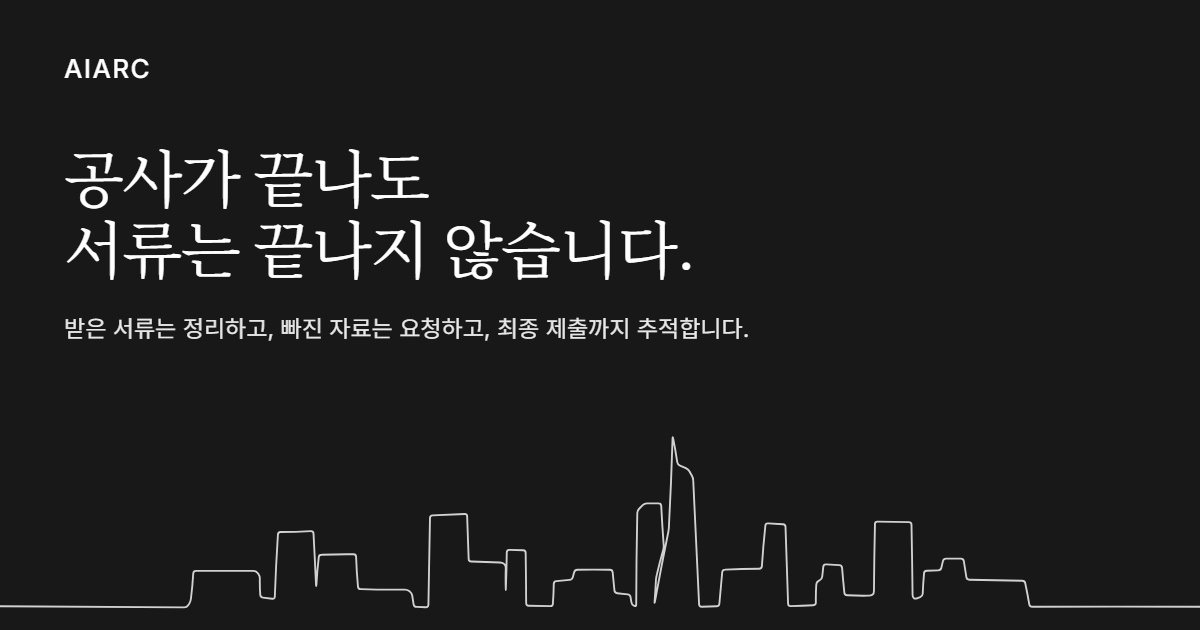
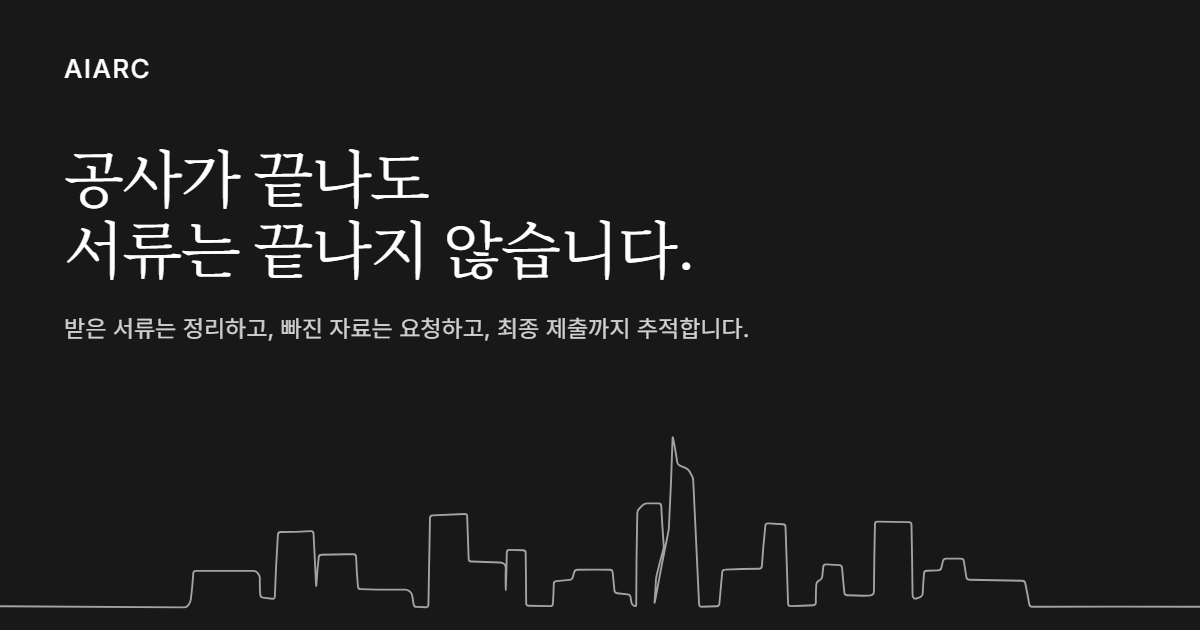
polish: drop the hero ladder to 100 / 80 / 60
Comparison variant. Subhead .9 -> .8 and skyline .8 -> .6, so the headline is the
only thing at full weight and the graphic sits further back.

Colour only. The diff in index.html is three lines: a comment, the subhead's
colour, and the path element's stroke. Path data byte-identical, stroke-width
still 3 at 1920 / 2.25 at 1440 / 1.2 on a phone, headline still 50/41.5/33 at
1.08, header and nav untouched.

diff --git a/index.html b/index.html
@@ -206,7 +206,7 @@ main{padding-top:var(--header-h)}
      headline stops dominating the skyline. Leading 1.15 -> 1.08 binds the two
      lines into one block. Family and weight unchanged. */
   font-size:33px;line-height:1.08;letter-spacing:-.025em;
-  /* top of the brightness ladder: headline 100, subhead 90, skyline 80 */
+  /* top of the brightness ladder: headline 100, subhead 80, skyline 60 */
   color:rgb(255 255 255);
   /* Korean has no inter-syllable break opportunity worth taking — without this the
      browser splits 않습니다 across lines at narrow widths */
@@ -218,7 +218,7 @@ main{padding-top:var(--header-h)}
    subhead mt-6 (24px), CTA mt-10 (40px) */
 .hero-sub{
   margin:24px auto 0;max-width:576px;
-  font-size:18px;line-height:1.625;color:rgb(255 255 255 / .9);
+  font-size:18px;line-height:1.625;color:rgb(255 255 255 / .8);
   word-break:keep-all;
 }
 .hero-cta{margin-top:40px;display:flex;align-items:center;justify-content:center}
@@ -381,7 +381,7 @@ main{padding-top:var(--header-h)}
       <div class="skyline-clip">
         <!-- purely decorative: announcing it adds nothing for screen readers -->
         <svg xmlns="http://www.w3.org/2000/svg" viewBox="0 0 1905 300" aria-hidden="true" focusable="false">
-          <path id="skyline-line" d="M0,284.5Q146.3,284.9 292.6,286.2Q296.6,286.2 298.7,282.9L300.6,280Q302.7,276.6 303.1,272.6Q305.6,252.5 306.8,232.3Q307.1,228.3 311.1,228.3Q356.7,228.5 402.3,228.3Q406.3,228.3 408.7,231.4L410,233Q412.4,236.2 412.5,240.2Q412.2,253.3 413.2,266.4Q413.3,270.4 417.3,270.9L432.1,272.6Q436.1,273.1 436.3,269.1Q438,219.9 441.2,170.8Q441.4,166.8 445.4,166.7Q469.5,166.5 493.5,165.2Q497.5,165.1 497.7,169Q499.9,209.8 501.7,250.6Q501.9,254.6 502.3,250.6Q503.4,228.7 506,206.8Q506.3,202.8 510.3,202.8Q535.7,201.7 561.1,202Q565.1,201.9 565.3,205.9Q566.1,229.6 568.3,253.3Q568.6,257.3 572.6,257.3Q607.6,258.5 642.7,258.1Q646.7,258.1 649.5,260.2L650.9,261.3Q653.7,263.4 654.4,267.4L656.6,281.4Q657.2,285.4 661.2,285.5L676,286.1Q680,286.2 680.1,282.2Q681.4,213.4 682.6,144.5Q682.7,140.5 686.7,140.3Q712.1,139.1 737.5,138Q741.5,137.8 741.6,141.8Q742.7,175.6 744,209.4Q744.1,213.4 748.1,213.5Q770.9,214.4 793.6,215Q797.6,215.1 799.7,216.9L800.8,217.7Q802.9,219.5 802.9,223.5Q802.4,240.1 802.9,256.8Q802.9,260.8 803,256.8Q804.2,227.9 804.5,198.9Q804.7,194.9 808.6,195L830.5,195.7Q834.5,195.8 834.5,199.8Q835.1,239.7 835.3,279.6Q835.4,283.6 839.4,283.7Q856.4,284 873.5,284.4Q877.5,284.5 877.7,280.5Q878.9,264.8 879.1,249Q879.2,245 883.2,244.6L904.2,242.7Q908.2,242.3 909.3,238.5L911.5,230.4Q912.6,226.5 916.6,226.5Q942.4,226.3 968.2,226.5Q972.2,226.5 972.6,230.5Q974,245 975.4,259.4Q975.8,263.4 979.7,263.8L996.3,265.6Q1000.3,266 1001,270L1002.3,277.9Q1003,281.9 1005.8,283.3L1007.2,284Q1010,285.4 1010,281.4Q1010.2,209 1011.7,136.6Q1011.7,132.6 1014.6,129.7L1020.3,124Q1023.1,121.1 1027.1,121.1L1045.5,121.1Q1049.5,121.1 1049.7,125.1Q1051.3,156.3 1053.6,187.4Q1053.9,191.4 1052.8,195.3Q1047.2,215 1042.6,234.9Q1041.6,238.8 1041.3,242.8Q1040.5,259.9 1039.2,277Q1038.9,281 1039.7,277Q1049.8,221.6 1061,166.3Q1061.8,162.4 1061.9,158.4Q1065.6,88.2 1067.7,18Q1067.9,14 1068.6,17.9Q1072.4,36.7 1075.1,55.7Q1075.8,59.7 1079.5,61.2L1088.8,65.1Q1092.5,66.7 1094.4,70.2L1098.4,77.3Q1100.4,80.7 1100.5,84.7Q1105.3,183.1 1109.8,281.4Q1110,285.4 1114,285.3L1137.6,284.6Q1141.6,284.5 1142,280.5Q1144.2,255.5 1146.5,230.5Q1146.9,226.5 1150.9,226.4Q1178,225 1205.2,224.9Q1209.2,224.8 1209.5,220.8Q1211.6,188.7 1215,156.7Q1215.3,152.8 1219.3,153L1242.9,154.3Q1246.9,154.5 1247,158.5Q1248.9,219.5 1251.1,280.5Q1251.3,284.5 1255.3,284.3Q1273.2,284 1291.2,282.9Q1295.2,282.7 1295.2,278.7Q1294.9,264.3 1295.9,249.8Q1296,245.9 1299.5,244.1L1301.3,243.2Q1304.8,241.5 1305.3,237.5L1307,221.7Q1307.4,217.7 1311.4,218L1332.4,219.3Q1336.4,219.5 1336.8,223.5Q1338.4,243.2 1340.4,262.9Q1340.8,266.9 1344.8,267Q1361.8,268 1378.9,267.7Q1382.9,267.8 1384.7,266.4L1385.5,265.7Q1387.3,264.3 1387.4,260.3Q1387.8,207.2 1389,154.1Q1389,150.1 1393,150.2Q1418,150.7 1443,150.9Q1447,151 1447,155Q1448.1,210.7 1448.7,266.4Q1448.7,270.4 1450.5,271.5L1451.3,272Q1453.1,273.1 1456.8,271.6L1460.8,270.1Q1464.5,268.7 1464.8,264.7Q1465.5,248.5 1466.9,232.3Q1467.1,228.3 1471.1,228.1L1489.5,227.5Q1493.5,227.4 1494.4,223.5L1496.9,212.9Q1497.9,209 1501.9,209L1525.4,209Q1529.4,209 1530.1,212.9Q1532.1,225.6 1534.1,238.4Q1534.7,242.3 1538.7,242.4Q1580.8,243.5 1622.8,244Q1626.8,244.1 1627.6,248Q1631.1,264.7 1634,281.4Q1634.7,285.4 1638.7,285.4Q1771.9,284.8 1905,285.4" fill="none" stroke="rgba(255,255,255,0.8)" stroke-width="3" stroke-linecap="round" stroke-linejoin="round" vector-effect="non-scaling-stroke"/>
+          <path id="skyline-line" d="M0,284.5Q146.3,284.9 292.6,286.2Q296.6,286.2 298.7,282.9L300.6,280Q302.7,276.6 303.1,272.6Q305.6,252.5 306.8,232.3Q307.1,228.3 311.1,228.3Q356.7,228.5 402.3,228.3Q406.3,228.3 408.7,231.4L410,233Q412.4,236.2 412.5,240.2Q412.2,253.3 413.2,266.4Q413.3,270.4 417.3,270.9L432.1,272.6Q436.1,273.1 436.3,269.1Q438,219.9 441.2,170.8Q441.4,166.8 445.4,166.7Q469.5,166.5 493.5,165.2Q497.5,165.1 497.7,169Q499.9,209.8 501.7,250.6Q501.9,254.6 502.3,250.6Q503.4,228.7 506,206.8Q506.3,202.8 510.3,202.8Q535.7,201.7 561.1,202Q565.1,201.9 565.3,205.9Q566.1,229.6 568.3,253.3Q568.6,257.3 572.6,257.3Q607.6,258.5 642.7,258.1Q646.7,258.1 649.5,260.2L650.9,261.3Q653.7,263.4 654.4,267.4L656.6,281.4Q657.2,285.4 661.2,285.5L676,286.1Q680,286.2 680.1,282.2Q681.4,213.4 682.6,144.5Q682.7,140.5 686.7,140.3Q712.1,139.1 737.5,138Q741.5,137.8 741.6,141.8Q742.7,175.6 744,209.4Q744.1,213.4 748.1,213.5Q770.9,214.4 793.6,215Q797.6,215.1 799.7,216.9L800.8,217.7Q802.9,219.5 802.9,223.5Q802.4,240.1 802.9,256.8Q802.9,260.8 803,256.8Q804.2,227.9 804.5,198.9Q804.7,194.9 808.6,195L830.5,195.7Q834.5,195.8 834.5,199.8Q835.1,239.7 835.3,279.6Q835.4,283.6 839.4,283.7Q856.4,284 873.5,284.4Q877.5,284.5 877.7,280.5Q878.9,264.8 879.1,249Q879.2,245 883.2,244.6L904.2,242.7Q908.2,242.3 909.3,238.5L911.5,230.4Q912.6,226.5 916.6,226.5Q942.4,226.3 968.2,226.5Q972.2,226.5 972.6,230.5Q974,245 975.4,259.4Q975.8,263.4 979.7,263.8L996.3,265.6Q1000.3,266 1001,270L1002.3,277.9Q1003,281.9 1005.8,283.3L1007.2,284Q1010,285.4 1010,281.4Q1010.2,209 1011.7,136.6Q1011.7,132.6 1014.6,129.7L1020.3,124Q1023.1,121.1 1027.1,121.1L1045.5,121.1Q1049.5,121.1 1049.7,125.1Q1051.3,156.3 1053.6,187.4Q1053.9,191.4 1052.8,195.3Q1047.2,215 1042.6,234.9Q1041.6,238.8 1041.3,242.8Q1040.5,259.9 1039.2,277Q1038.9,281 1039.7,277Q1049.8,221.6 1061,166.3Q1061.8,162.4 1061.9,158.4Q1065.6,88.2 1067.7,18Q1067.9,14 1068.6,17.9Q1072.4,36.7 1075.1,55.7Q1075.8,59.7 1079.5,61.2L1088.8,65.1Q1092.5,66.7 1094.4,70.2L1098.4,77.3Q1100.4,80.7 1100.5,84.7Q1105.3,183.1 1109.8,281.4Q1110,285.4 1114,285.3L1137.6,284.6Q1141.6,284.5 1142,280.5Q1144.2,255.5 1146.5,230.5Q1146.9,226.5 1150.9,226.4Q1178,225 1205.2,224.9Q1209.2,224.8 1209.5,220.8Q1211.6,188.7 1215,156.7Q1215.3,152.8 1219.3,153L1242.9,154.3Q1246.9,154.5 1247,158.5Q1248.9,219.5 1251.1,280.5Q1251.3,284.5 1255.3,284.3Q1273.2,284 1291.2,282.9Q1295.2,282.7 1295.2,278.7Q1294.9,264.3 1295.9,249.8Q1296,245.9 1299.5,244.1L1301.3,243.2Q1304.8,241.5 1305.3,237.5L1307,221.7Q1307.4,217.7 1311.4,218L1332.4,219.3Q1336.4,219.5 1336.8,223.5Q1338.4,243.2 1340.4,262.9Q1340.8,266.9 1344.8,267Q1361.8,268 1378.9,267.7Q1382.9,267.8 1384.7,266.4L1385.5,265.7Q1387.3,264.3 1387.4,260.3Q1387.8,207.2 1389,154.1Q1389,150.1 1393,150.2Q1418,150.7 1443,150.9Q1447,151 1447,155Q1448.1,210.7 1448.7,266.4Q1448.7,270.4 1450.5,271.5L1451.3,272Q1453.1,273.1 1456.8,271.6L1460.8,270.1Q1464.5,268.7 1464.8,264.7Q1465.5,248.5 1466.9,232.3Q1467.1,228.3 1471.1,228.1L1489.5,227.5Q1493.5,227.4 1494.4,223.5L1496.9,212.9Q1497.9,209 1501.9,209L1525.4,209Q1529.4,209 1530.1,212.9Q1532.1,225.6 1534.1,238.4Q1534.7,242.3 1538.7,242.4Q1580.8,243.5 1622.8,244Q1626.8,244.1 1627.6,248Q1631.1,264.7 1634,281.4Q1634.7,285.4 1638.7,285.4Q1771.9,284.8 1905,285.4" fill="none" stroke="rgba(255,255,255,0.6)" stroke-width="3" stroke-linecap="round" stroke-linejoin="round" vector-effect="non-scaling-stroke"/>
         </svg>
       </div>
     </div>

diff --git a/tools/og-card.html b/tools/og-card.html
@@ -32,7 +32,7 @@ h1{
 h1 .line{display:block}
 p{
   margin:28px 0 0;max-width:760px;
-  font-size:23px;line-height:1.6;color:rgb(255 255 255 / .9);word-break:keep-all;
+  font-size:23px;line-height:1.6;color:rgb(255 255 255 / .8);word-break:keep-all;
 }
 /* Full bleed, exactly as on the page: the ground line runs corner to corner and
    the card is just a shorter viewport. The copy sits higher than the page's so the
@@ -57,7 +57,7 @@ p{
 
   <div class="skyline">
     <svg xmlns="http://www.w3.org/2000/svg" viewBox="0 0 1905 300" aria-hidden="true">
-      <path id="skyline-line" d="M0,284.5Q146.3,284.9 292.6,286.2Q296.6,286.2 298.7,282.9L300.6,280Q302.7,276.6 303.1,272.6Q305.6,252.5 306.8,232.3Q307.1,228.3 311.1,228.3Q356.7,228.5 402.3,228.3Q406.3,228.3 408.7,231.4L410,233Q412.4,236.2 412.5,240.2Q412.2,253.3 413.2,266.4Q413.3,270.4 417.3,270.9L432.1,272.6Q436.1,273.1 436.3,269.1Q438,219.9 441.2,170.8Q441.4,166.8 445.4,166.7Q469.5,166.5 493.5,165.2Q497.5,165.1 497.7,169Q499.9,209.8 501.7,250.6Q501.9,254.6 502.3,250.6Q503.4,228.7 506,206.8Q506.3,202.8 510.3,202.8Q535.7,201.7 561.1,202Q565.1,201.9 565.3,205.9Q566.1,229.6 568.3,253.3Q568.6,257.3 572.6,257.3Q607.6,258.5 642.7,258.1Q646.7,258.1 649.5,260.2L650.9,261.3Q653.7,263.4 654.4,267.4L656.6,281.4Q657.2,285.4 661.2,285.5L676,286.1Q680,286.2 680.1,282.2Q681.4,213.4 682.6,144.5Q682.7,140.5 686.7,140.3Q712.1,139.1 737.5,138Q741.5,137.8 741.6,141.8Q742.7,175.6 744,209.4Q744.1,213.4 748.1,213.5Q770.9,214.4 793.6,215Q797.6,215.1 799.7,216.9L800.8,217.7Q802.9,219.5 802.9,223.5Q802.4,240.1 802.9,256.8Q802.9,260.8 803,256.8Q804.2,227.9 804.5,198.9Q804.7,194.9 808.6,195L830.5,195.7Q834.5,195.8 834.5,199.8Q835.1,239.7 835.3,279.6Q835.4,283.6 839.4,283.7Q856.4,284 873.5,284.4Q877.5,284.5 877.7,280.5Q878.9,264.8 879.1,249Q879.2,245 883.2,244.6L904.2,242.7Q908.2,242.3 909.3,238.5L911.5,230.4Q912.6,226.5 916.6,226.5Q942.4,226.3 968.2,226.5Q972.2,226.5 972.6,230.5Q974,245 975.4,259.4Q975.8,263.4 979.7,263.8L996.3,265.6Q1000.3,266 1001,270L1002.3,277.9Q1003,281.9 1005.8,283.3L1007.2,284Q1010,285.4 1010,281.4Q1010.2,209 1011.7,136.6Q1011.7,132.6 1014.6,129.7L1020.3,124Q1023.1,121.1 1027.1,121.1L1045.5,121.1Q1049.5,121.1 1049.7,125.1Q1051.3,156.3 1053.6,187.4Q1053.9,191.4 1052.8,195.3Q1047.2,215 1042.6,234.9Q1041.6,238.8 1041.3,242.8Q1040.5,259.9 1039.2,277Q1038.9,281 1039.7,277Q1049.8,221.6 1061,166.3Q1061.8,162.4 1061.9,158.4Q1065.6,88.2 1067.7,18Q1067.9,14 1068.6,17.9Q1072.4,36.7 1075.1,55.7Q1075.8,59.7 1079.5,61.2L1088.8,65.1Q1092.5,66.7 1094.4,70.2L1098.4,77.3Q1100.4,80.7 1100.5,84.7Q1105.3,183.1 1109.8,281.4Q1110,285.4 1114,285.3L1137.6,284.6Q1141.6,284.5 1142,280.5Q1144.2,255.5 1146.5,230.5Q1146.9,226.5 1150.9,226.4Q1178,225 1205.2,224.9Q1209.2,224.8 1209.5,220.8Q1211.6,188.7 1215,156.7Q1215.3,152.8 1219.3,153L1242.9,154.3Q1246.9,154.5 1247,158.5Q1248.9,219.5 1251.1,280.5Q1251.3,284.5 1255.3,284.3Q1273.2,284 1291.2,282.9Q1295.2,282.7 1295.2,278.7Q1294.9,264.3 1295.9,249.8Q1296,245.9 1299.5,244.1L1301.3,243.2Q1304.8,241.5 1305.3,237.5L1307,221.7Q1307.4,217.7 1311.4,218L1332.4,219.3Q1336.4,219.5 1336.8,223.5Q1338.4,243.2 1340.4,262.9Q1340.8,266.9 1344.8,267Q1361.8,268 1378.9,267.7Q1382.9,267.8 1384.7,266.4L1385.5,265.7Q1387.3,264.3 1387.4,260.3Q1387.8,207.2 1389,154.1Q1389,150.1 1393,150.2Q1418,150.7 1443,150.9Q1447,151 1447,155Q1448.1,210.7 1448.7,266.4Q1448.7,270.4 1450.5,271.5L1451.3,272Q1453.1,273.1 1456.8,271.6L1460.8,270.1Q1464.5,268.7 1464.8,264.7Q1465.5,248.5 1466.9,232.3Q1467.1,228.3 1471.1,228.1L1489.5,227.5Q1493.5,227.4 1494.4,223.5L1496.9,212.9Q1497.9,209 1501.9,209L1525.4,209Q1529.4,209 1530.1,212.9Q1532.1,225.6 1534.1,238.4Q1534.7,242.3 1538.7,242.4Q1580.8,243.5 1622.8,244Q1626.8,244.1 1627.6,248Q1631.1,264.7 1634,281.4Q1634.7,285.4 1638.7,285.4Q1771.9,284.8 1905,285.4" fill="none" stroke="rgba(255,255,255,0.8)" stroke-width="3" stroke-linecap="round" stroke-linejoin="round" vector-effect="non-scaling-stroke"/>
+      <path id="skyline-line" d="M0,284.5Q146.3,284.9 292.6,286.2Q296.6,286.2 298.7,282.9L300.6,280Q302.7,276.6 303.1,272.6Q305.6,252.5 306.8,232.3Q307.1,228.3 311.1,228.3Q356.7,228.5 402.3,228.3Q406.3,228.3 408.7,231.4L410,233Q412.4,236.2 412.5,240.2Q412.2,253.3 413.2,266.4Q413.3,270.4 417.3,270.9L432.1,272.6Q436.1,273.1 436.3,269.1Q438,219.9 441.2,170.8Q441.4,166.8 445.4,166.7Q469.5,166.5 493.5,165.2Q497.5,165.1 497.7,169Q499.9,209.8 501.7,250.6Q501.9,254.6 502.3,250.6Q503.4,228.7 506,206.8Q506.3,202.8 510.3,202.8Q535.7,201.7 561.1,202Q565.1,201.9 565.3,205.9Q566.1,229.6 568.3,253.3Q568.6,257.3 572.6,257.3Q607.6,258.5 642.7,258.1Q646.7,258.1 649.5,260.2L650.9,261.3Q653.7,263.4 654.4,267.4L656.6,281.4Q657.2,285.4 661.2,285.5L676,286.1Q680,286.2 680.1,282.2Q681.4,213.4 682.6,144.5Q682.7,140.5 686.7,140.3Q712.1,139.1 737.5,138Q741.5,137.8 741.6,141.8Q742.7,175.6 744,209.4Q744.1,213.4 748.1,213.5Q770.9,214.4 793.6,215Q797.6,215.1 799.7,216.9L800.8,217.7Q802.9,219.5 802.9,223.5Q802.4,240.1 802.9,256.8Q802.9,260.8 803,256.8Q804.2,227.9 804.5,198.9Q804.7,194.9 808.6,195L830.5,195.7Q834.5,195.8 834.5,199.8Q835.1,239.7 835.3,279.6Q835.4,283.6 839.4,283.7Q856.4,284 873.5,284.4Q877.5,284.5 877.7,280.5Q878.9,264.8 879.1,249Q879.2,245 883.2,244.6L904.2,242.7Q908.2,242.3 909.3,238.5L911.5,230.4Q912.6,226.5 916.6,226.5Q942.4,226.3 968.2,226.5Q972.2,226.5 972.6,230.5Q974,245 975.4,259.4Q975.8,263.4 979.7,263.8L996.3,265.6Q1000.3,266 1001,270L1002.3,277.9Q1003,281.9 1005.8,283.3L1007.2,284Q1010,285.4 1010,281.4Q1010.2,209 1011.7,136.6Q1011.7,132.6 1014.6,129.7L1020.3,124Q1023.1,121.1 1027.1,121.1L1045.5,121.1Q1049.5,121.1 1049.7,125.1Q1051.3,156.3 1053.6,187.4Q1053.9,191.4 1052.8,195.3Q1047.2,215 1042.6,234.9Q1041.6,238.8 1041.3,242.8Q1040.5,259.9 1039.2,277Q1038.9,281 1039.7,277Q1049.8,221.6 1061,166.3Q1061.8,162.4 1061.9,158.4Q1065.6,88.2 1067.7,18Q1067.9,14 1068.6,17.9Q1072.4,36.7 1075.1,55.7Q1075.8,59.7 1079.5,61.2L1088.8,65.1Q1092.5,66.7 1094.4,70.2L1098.4,77.3Q1100.4,80.7 1100.5,84.7Q1105.3,183.1 1109.8,281.4Q1110,285.4 1114,285.3L1137.6,284.6Q1141.6,284.5 1142,280.5Q1144.2,255.5 1146.5,230.5Q1146.9,226.5 1150.9,226.4Q1178,225 1205.2,224.9Q1209.2,224.8 1209.5,220.8Q1211.6,188.7 1215,156.7Q1215.3,152.8 1219.3,153L1242.9,154.3Q1246.9,154.5 1247,158.5Q1248.9,219.5 1251.1,280.5Q1251.3,284.5 1255.3,284.3Q1273.2,284 1291.2,282.9Q1295.2,282.7 1295.2,278.7Q1294.9,264.3 1295.9,249.8Q1296,245.9 1299.5,244.1L1301.3,243.2Q1304.8,241.5 1305.3,237.5L1307,221.7Q1307.4,217.7 1311.4,218L1332.4,219.3Q1336.4,219.5 1336.8,223.5Q1338.4,243.2 1340.4,262.9Q1340.8,266.9 1344.8,267Q1361.8,268 1378.9,267.7Q1382.9,267.8 1384.7,266.4L1385.5,265.7Q1387.3,264.3 1387.4,260.3Q1387.8,207.2 1389,154.1Q1389,150.1 1393,150.2Q1418,150.7 1443,150.9Q1447,151 1447,155Q1448.1,210.7 1448.7,266.4Q1448.7,270.4 1450.5,271.5L1451.3,272Q1453.1,273.1 1456.8,271.6L1460.8,270.1Q1464.5,268.7 1464.8,264.7Q1465.5,248.5 1466.9,232.3Q1467.1,228.3 1471.1,228.1L1489.5,227.5Q1493.5,227.4 1494.4,223.5L1496.9,212.9Q1497.9,209 1501.9,209L1525.4,209Q1529.4,209 1530.1,212.9Q1532.1,225.6 1534.1,238.4Q1534.7,242.3 1538.7,242.4Q1580.8,243.5 1622.8,244Q1626.8,244.1 1627.6,248Q1631.1,264.7 1634,281.4Q1634.7,285.4 1638.7,285.4Q1771.9,284.8 1905,285.4" fill="none" stroke="rgba(255,255,255,0.6)" stroke-width="3" stroke-linecap="round" stroke-linejoin="round" vector-effect="non-scaling-stroke"/>
     </svg>
   </div>
 </body>

diff --git a/tools/skyline.js b/tools/skyline.js
@@ -32,10 +32,10 @@ const VB_H = 300;
 // real pixels - 0.156vw is exactly this at 1920, with a floor because the
 // proportional width on a 390px phone is 0.6px, which is a smear not a line.
 const STROKE = 3;
-// Bottom rung of the hero's brightness ladder: headline 100, subhead 90, this 80.
+// Bottom rung of the hero's brightness ladder: headline 100, subhead 80, this 60.
 // Same white, lower weight - the graphic backs the copy rather than competing
 // with it. Geometry and STROKE are deliberately untouched.
-const COLOUR = 'rgba(255,255,255,0.8)';
+const COLOUR = 'rgba(255,255,255,0.6)';
 
 const d = 'M0,284.5Q146.3,284.9 292.6,286.2Q296.6,286.2 298.7,282.9L300.6,280Q302.7,276.6 303.1,272.6Q305.6,252.5 306.8,232.3Q307.1,228.3 311.1,228.3Q356.7,228.5 402.3,228.3Q406.3,228.3 408.7,231.4L410,233Q412.4,236.2 412.5,240.2Q412.2,253.3 413.2,266.4Q413.3,270.4 417.3,270.9L432.1,272.6Q436.1,273.1 436.3,269.1Q438,219.9 441.2,170.8Q441.4,166.8 445.4,166.7Q469.5,166.5 493.5,165.2Q497.5,165.1 497.7,169Q499.9,209.8 501.7,250.6Q501.9,254.6 502.3,250.6Q503.4,228.7 506,206.8Q506.3,202.8 510.3,202.8Q535.7,201.7 561.1,202Q565.1,201.9 565.3,205.9Q566.1,229.6 568.3,253.3Q568.6,257.3 572.6,257.3Q607.6,258.5 642.7,258.1Q646.7,258.1 649.5,260.2L650.9,261.3Q653.7,263.4 654.4,267.4L656.6,281.4Q657.2,285.4 661.2,285.5L676,286.1Q680,286.2 680.1,282.2Q681.4,213.4 682.6,144.5Q682.7,140.5 686.7,140.3Q712.1,139.1 737.5,138Q741.5,137.8 741.6,141.8Q742.7,175.6 744,209.4Q744.1,213.4 748.1,213.5Q770.9,214.4 793.6,215Q797.6,215.1 799.7,216.9L800.8,217.7Q802.9,219.5 802.9,223.5Q802.4,240.1 802.9,256.8Q802.9,260.8 803,256.8Q804.2,227.9 804.5,198.9Q804.7,194.9 808.6,195L830.5,195.7Q834.5,195.8 834.5,199.8Q835.1,239.7 835.3,279.6Q835.4,283.6 839.4,283.7Q856.4,284 873.5,284.4Q877.5,284.5 877.7,280.5Q878.9,264.8 879.1,249Q879.2,245 883.2,244.6L904.2,242.7Q908.2,242.3 909.3,238.5L911.5,230.4Q912.6,226.5 916.6,226.5Q942.4,226.3 968.2,226.5Q972.2,226.5 972.6,230.5Q974,245 975.4,259.4Q975.8,263.4 979.7,263.8L996.3,265.6Q1000.3,266 1001,270L1002.3,277.9Q1003,281.9 1005.8,283.3L1007.2,284Q1010,285.4 1010,281.4Q1010.2,209 1011.7,136.6Q1011.7,132.6 1014.6,129.7L1020.3,124Q1023.1,121.1 1027.1,121.1L1045.5,121.1Q1049.5,121.1 1049.7,125.1Q1051.3,156.3 1053.6,187.4Q1053.9,191.4 1052.8,195.3Q1047.2,215 1042.6,234.9Q1041.6,238.8 1041.3,242.8Q1040.5,259.9 1039.2,277Q1038.9,281 1039.7,277Q1049.8,221.6 1061,166.3Q1061.8,162.4 1061.9,158.4Q1065.6,88.2 1067.7,18Q1067.9,14 1068.6,17.9Q1072.4,36.7 1075.1,55.7Q1075.8,59.7 1079.5,61.2L1088.8,65.1Q1092.5,66.7 1094.4,70.2L1098.4,77.3Q1100.4,80.7 1100.5,84.7Q1105.3,183.1 1109.8,281.4Q1110,285.4 1114,285.3L1137.6,284.6Q1141.6,284.5 1142,280.5Q1144.2,255.5 1146.5,230.5Q1146.9,226.5 1150.9,226.4Q1178,225 1205.2,224.9Q1209.2,224.8 1209.5,220.8Q1211.6,188.7 1215,156.7Q1215.3,152.8 1219.3,153L1242.9,154.3Q1246.9,154.5 1247,158.5Q1248.9,219.5 1251.1,280.5Q1251.3,284.5 1255.3,284.3Q1273.2,284 1291.2,282.9Q1295.2,282.7 1295.2,278.7Q1294.9,264.3 1295.9,249.8Q1296,245.9 1299.5,244.1L1301.3,243.2Q1304.8,241.5 1305.3,237.5L1307,221.7Q1307.4,217.7 1311.4,218L1332.4,219.3Q1336.4,219.5 1336.8,223.5Q1338.4,243.2 1340.4,262.9Q1340.8,266.9 1344.8,267Q1361.8,268 1378.9,267.7Q1382.9,267.8 1384.7,266.4L1385.5,265.7Q1387.3,264.3 1387.4,260.3Q1387.8,207.2 1389,154.1Q1389,150.1 1393,150.2Q1418,150.7 1443,150.9Q1447,151 1447,155Q1448.1,210.7 1448.7,266.4Q1448.7,270.4 1450.5,271.5L1451.3,272Q1453.1,273.1 1456.8,271.6L1460.8,270.1Q1464.5,268.7 1464.8,264.7Q1465.5,248.5 1466.9,232.3Q1467.1,228.3 1471.1,228.1L1489.5,227.5Q1493.5,227.4 1494.4,223.5L1496.9,212.9Q1497.9,209 1501.9,209L1525.4,209Q1529.4,209 1530.1,212.9Q1532.1,225.6 1534.1,238.4Q1534.7,242.3 1538.7,242.4Q1580.8,243.5 1622.8,244Q1626.8,244.1 1627.6,248Q1631.1,264.7 1634,281.4Q1634.7,285.4 1638.7,285.4Q1771.9,284.8 1905,285.4';
 
